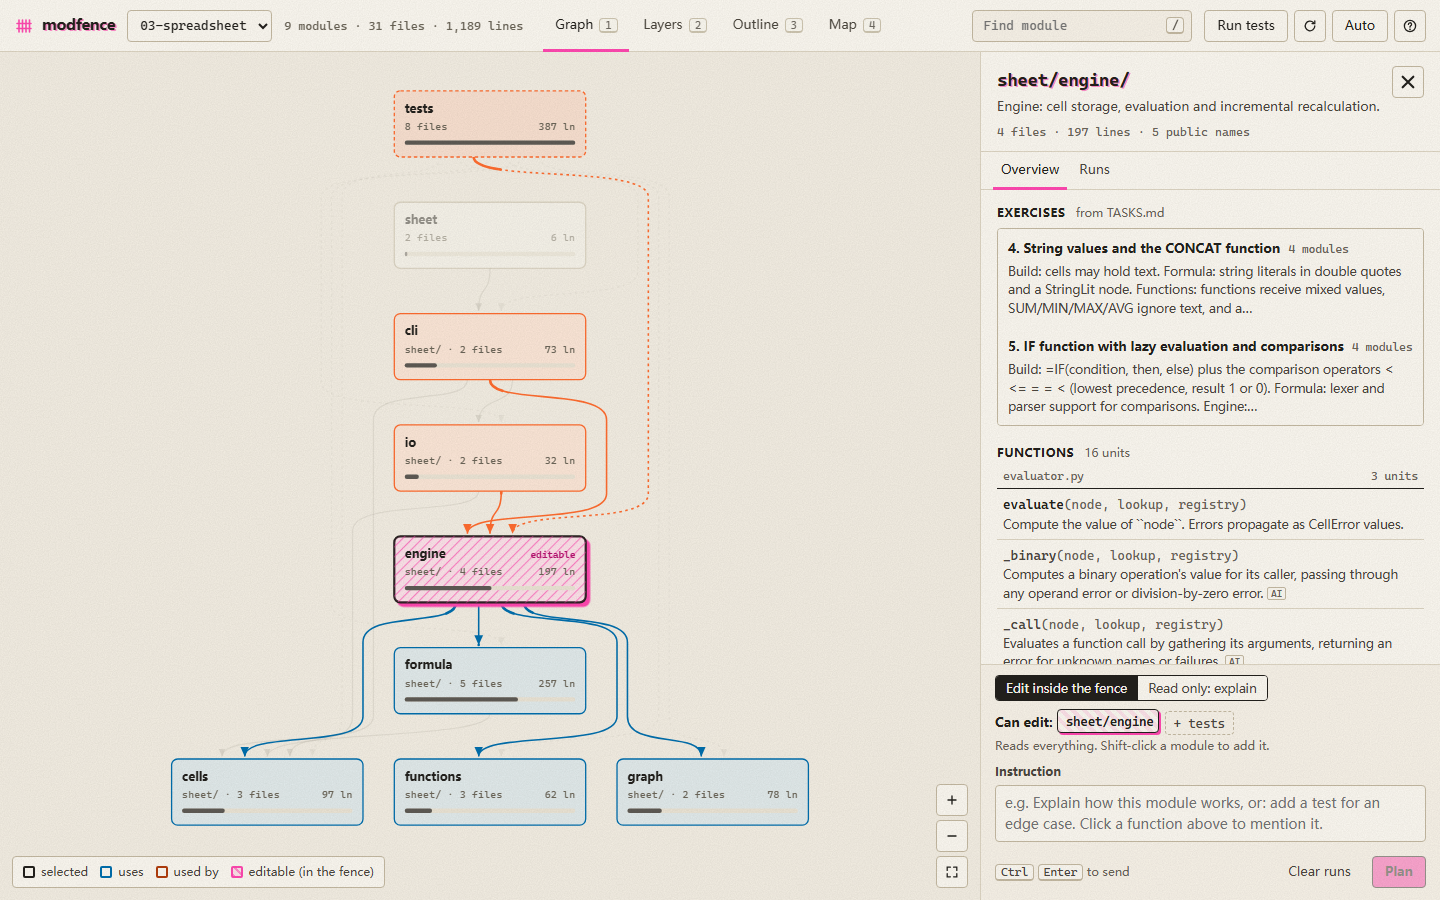
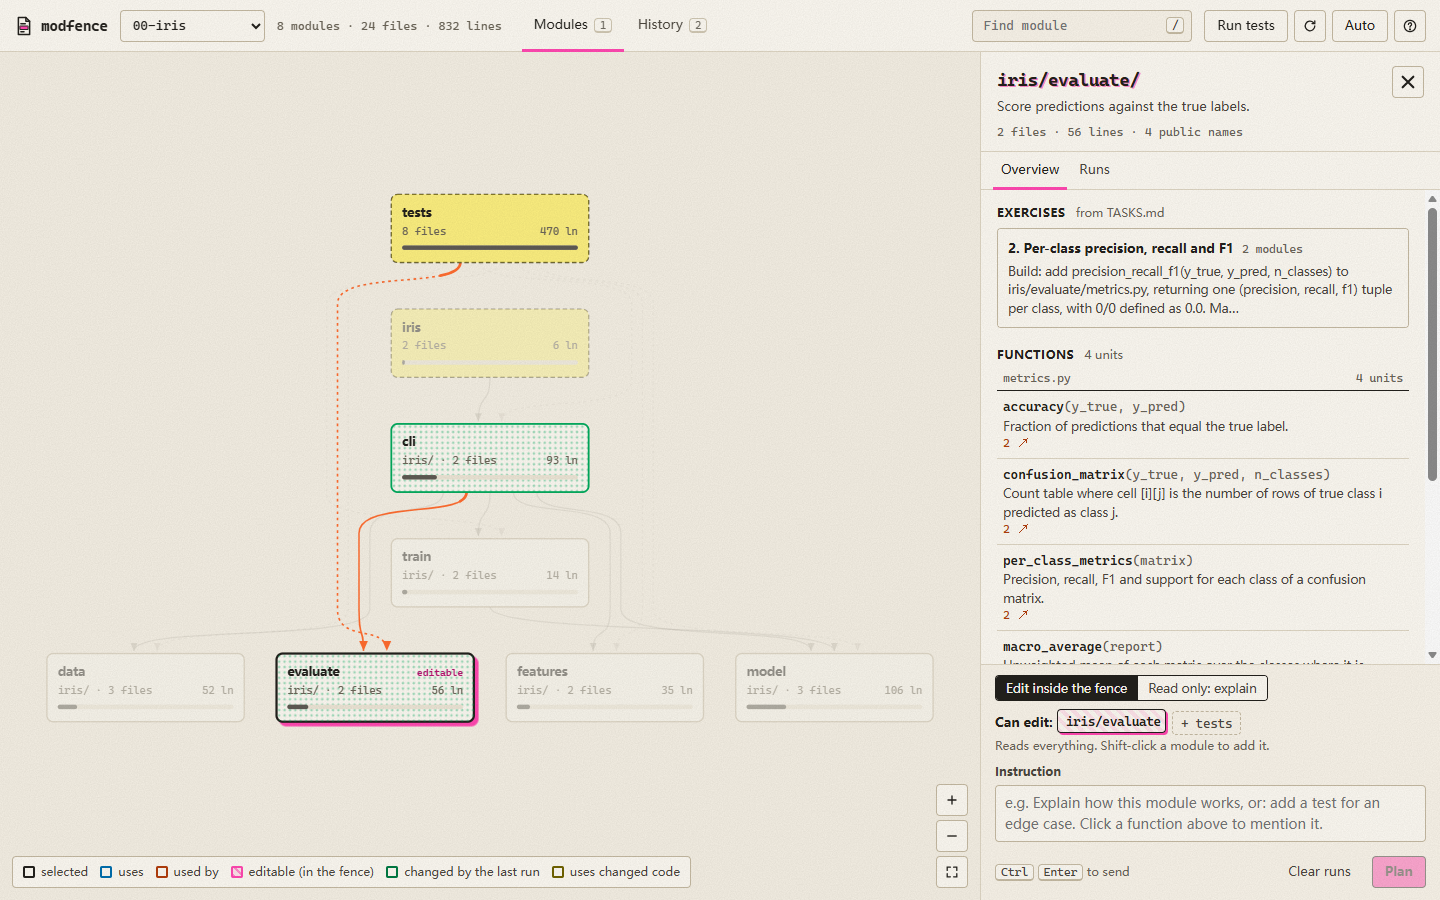
Rewrite README for fence coding; STANDARDS

diff --git a/README.md b/README.md
@@ -1,119 +1,94 @@
 # modfence
 
-**See your project as modules and functions. Fence what an AI agent may edit. Plan, build, and review every function it changed.**
+**Vibe code one module at a time. Fence what the AI agent may edit, agree on a plan, and get every run back as a version you can read by function and undo.**
 
-![modfence on the spreadsheet example](docs/graph.png)
+![modfence on the iris example: the evaluate module selected and fenced, its functions with what each does](docs/graph.png)
 
-modfence is a tool for **fence coding**: working with an AI agent on a codebase you read as modules and functions instead of lines. Vibe coding hands the agent the whole repo and a wish. Fence coding asks a little more of you first: you say which modules may change, settle the open questions, and agree on what "done" means. In return the agent explores less, and every change comes back as a list of functions you can check.
+Tools that draw a repository's structure help you read it. modfence is for changing it with an AI agent without losing track of your own project. You work in **fence coding**:
 
-It draws your Python project as modules and the imports between them. Select a module and a panel opens with:
+1. **Pick the module.** Select it on the map, see its functions and what each one does, what it uses and who uses it. Shift-click to fence more modules.
+2. **Agree on a plan.** The agent reads the project (it cannot edit yet), asks up to four questions with its recommended answer preselected, and lists the functions it will add, change or remove. You answer and press *Build*.
+3. **Build inside the fence.** A hook blocks every edit outside the fenced modules. Before the agent may stop, the project's tests run; if they fail it is sent back once.
+4. **Review the version.** Every run that changed code becomes a numbered version in **History**: what you asked, which modules and functions changed, whether the tests passed, the cost, the diff, and a revert.
 
-- **its functions**, each with one line on what it does: the author's docstring, or, where there is none, a summary written by a small model (Haiku) the first time you open the module and cached until the file changes (marked `AI`);
-- what it uses and who uses it, by name (`parser uses tokenize, Token from lexer`);
-- exercises from the project's `TASKS.md` that touch it;
-- the fence, and an instruction box. Click a function to mention it in the instruction.
-
-The source files are one click further, under *Source files*, for whoever wants them.
-
-Your instruction goes to your own Claude Code:
-
-- **An edit starts with a plan.** The agent reads the project (it cannot edit yet), asks up to four questions with its recommended answer preselected, and lists the functions it will add, change or remove. You answer and press *Build*; the build resumes the same session, so nothing the planner read is read again.
-- **The agent reads the whole project but edits only inside the fence.** A hook enforces this; the prompt does not just ask for it.
-- **A done check before it may finish.** A `Stop` hook runs the project's tests. If they fail, the agent is sent back once with the output; a second failure is let through and the run is marked "done check failed", so it cannot loop and burn tokens.
-- **Read only mode** fences nothing and skips the plan: the agent explains and gives hints instead of solutions.
-- **Each run ends with the functions it touched:** added, changed or removed, with what each one now does. The line diff is behind *Source*. You can revert the run; a file you edited again since the run is left alone.
-- **The graph shows the effect.** Changed modules get green dots and a `+n −m` badge. Modules that use changed code turn yellow. Files changed outside the fence get a red banner and a one-click revert.
-
-![A build run on the calculator: the functions it touched, and the done check](docs/runs.png)
-
-![Layers view](docs/layers.png)
+![History: two builds on the iris example, which module each changed, and the functions of v2](docs/history.png)
 
 ## Run it
 
 ```bash
-cd modfence
-python -m modfence                         # the four example projects
-python -m modfence path/to/your/project    # or your own (one or more)
+pip install git+https://github.com/ruijiezh67/modfence
+cd path/to/your/project
+modfence
 ```
 
-It opens `http://127.0.0.1:8765`.
+It opens `http://127.0.0.1:8765` on the current directory. `modfence a b` opens several projects; To try the bundled examples from a clone of this repo: `python -m modfence examples/*`.
 
-**Requirements:** Python 3.10+, and a logged-in [Claude Code](https://code.claude.com) CLI. Runs use your own subscription or API setup, so modfence needs no API key of its own.
+**Requirements:** Python 3.10+ and a logged-in [Claude Code](https://code.claude.com) CLI. Runs use your own Claude subscription or API setup; modfence has no API key and no dependencies.
 
-**Which Claude Code it uses:** the first one it finds of:
-1. `CLAUDE_BIN`;
-2. the newest binary bundled with the VS Code extension;
-3. `claude` on your PATH.
+**Tests for the done check:** pytest if the project is configured for it (`conftest.py`, `pytest.ini`, or `[tool.pytest...]`), else `unittest` on `tests/` or `test/`, using the project's `.venv` if it has one. Override with `modfence --test-cmd "pytest -q tests/unit"`. A suite that takes longer than 270 s is not used to block the agent.
 
-modfence itself uses only the Python standard library and nothing is installed.
+## Big projects
+
+- **Folders fold.** A project with more than 60 modules opens as its top folders (fastapi: 430 modules as 4 folders). Click a folder to open it; the path at the top goes back. Search (`/`) finds any module and opens the folders down to it.
+- **Fast after the first scan.** Parsed files and file hashes are cached by size and modification time. Measured on a laptop: fastapi (1,219 Python files) scans and snapshots in 1.6 s once cached (8.9 s for the first scan; 61 s right after cloning, when the disk cache is cold too); pydantic (3,155 files) in 2.2 s (11.8 s first scan).
+- **Revert is kept for the fence.** Before a run, modfence keeps a copy of up to 50 MB of the project's files, and always of the fenced modules' files, so the run can be undone.
+
+![fastapi opened at its fastapi/ folder; tests, docs_src and scripts stay folded](docs/big.png)
+
+## The example: an ML pipeline in six modules
+
+[`examples/00-iris`](examples/00-iris/) trains a classifier on Fisher's Iris data with the standard library only: `data` (load, stratified split), `features` (standardize), `model` (softmax regression), `train` (gradient descent), `evaluate` (accuracy, confusion matrix), and `cli`, which runs them in that order. 34 tests run in about a second; `python -m iris train` prints test accuracy 0.9778. Its `TASKS.md` has five exercises, from one module (a k-NN model) to several (save and load as JSON: `model` + `cli`).
+
+The two versions in the History screenshot are real runs on it (Claude Code 2.1.319, 2026-11-07):
+
+| Version | Fence | Plan | Build | Done check | Functions |
+|---|---|---|---|---|---|
+| v1 k-NN classifier | `iris/model`, `tests` | $0.23 | $0.39 | passed, 43 tests | +5 in `knn.py`; +10 in tests |
+| v2 precision, recall, F1 | `iris/evaluate`, `iris/cli`, `tests` | $0.25 | $0.51 | passed, 49 tests | +3 and ~4 in code; +6 in tests |
+
+[`examples/`](examples/) also holds a calculator (a pipeline), a library system (layers), a spreadsheet engine, and a PyTorch tinygpt (needs `torch`).
 
 ## Using it
 
 | Do | How |
 |---|---|
-| Find a module | Press `/` or `Ctrl` + `K` and type. Or click it in any view. |
-| Switch view | `1` Graph, `2` Layers (architecture bands), `3` Outline (the project as a document), `4` Map (area is lines of code). Selection, fence and change marks carry across views. |
-| Read a module | What it uses turns blue and the modules that use it orange; everything else fades. Its functions are listed with what each does; hover an arrow to see which names it carries. |
-| Set the fence | The selected module is editable (pink, hatched). Shift-click adds modules; `+ tests` adds the tests. Switch to `Read only: explain` to fence nothing. |
-| Give an instruction | Type it (click a function to mention it) and press *Plan* or `Ctrl` + `Enter` (`Cmd` + `Enter`). Answer the plan's questions and press *Build*. The bar under the top bar shows the running agent from any view, with Stop. While it runs, the fence border marches. |
-| Pick an exercise | Exercises from `TASKS.md` that touch the module appear in its Overview. Clicking one fills in the instruction and fences the modules it names, plus the tests. |
-| Review | In the Runs tab: the functions each run changed, *Source* for the line diff, `Revert this run`, `Run tests`. |
-| Start over | `Clear runs` drops this fence's agent session and run history. Files are not touched. |
-| Move around | Drag to pan, pinch or `Ctrl` + scroll to zoom, double-click to fit. The panel is resizable. `?` opens the help. |
-| Link to a module | `http://127.0.0.1:8765/#p=1&m=library/services` opens project 1 with that module selected. |
+| Find a module | `/` or `Ctrl` + `K`, then type. |
+| Switch view | `1` Modules, `2` History. |
+| Read a module | What it uses turns blue, the modules that use it orange. Its functions are listed with what each does: the docstring, or a one-line summary by a small model (Haiku), cached until the file changes and marked `AI`. Source files are folded away under *Source files*. |
+| Set the fence | The selected module is editable (pink). Shift-click adds modules; `+ tests` adds the tests. `Read only: explain` fences nothing and skips the plan. |
+| Instruct | Type (click a function to mention it), press *Plan* or `Ctrl` + `Enter`. Answer, press *Build*. The bar at the top shows the running agent, with Stop. |
+| Review | The run's functions appear in the panel; every run is also a version in History. *Show on graph* paints the modules it changed (green) and those that use them (yellow). *Changes, diff and revert* opens the functions, the line diff, and the revert. |
+| Link | `http://127.0.0.1:8765/#p=0&m=iris/evaluate` opens a module. |
 
-## The example projects
+## Engineering standards
 
-[`examples/`](examples/) holds four small modular projects, from easy to hard. Each has tests and a `TASKS.md` with five exercises, from single-module to cross-module:
-
-| Project | Modules | What it teaches |
-|---|---|---|
-| `01-calculator` | lexer, parser, evaluator, cli | a pipeline: each stage depends only on the one before it |
-| `02-library` | domain, storage, services, reports, cli | layers: the domain depends on nothing, and the CLI sits on top |
-| `03-spreadsheet` | cells, formula, functions, graph, engine, io, cli | an engine that composes four independent modules |
-| `04-tinygpt` | config, data, model, train, eval, cli | a PyTorch training codebase: a character-level GPT that trains on a CPU in seconds. Needs `torch`. |
-
-The cross-module tasks are where the fence pays off. Here is what happened with the fence set to `calc/evaluator` only, asking for the `^` operator, which also needs the lexer and parser:
-
-- Claude implemented and tested the evaluator part.
-- It listed the exact changes `calc/lexer` and `calc/parser` still need.
-- It did not touch them.
-
-In a separate check, asked to write a file in `calc/lexer` with the same fence, the write was blocked by the hook.
+[`docs/STANDARDS.md`](docs/STANDARDS.md) lists the rules modfence takes from git's contribution guidelines, Google's code review practices, Anthropic's Claude Code best practices and others, and for each one whether modfence does it and which test shows it. In short: plan first, a harness-enforced pass/fail check, edits blocked outside the fence, every change reviewable by function and reversible. Not yet: size warnings, test-first mode, commit messages from runs.
 
 ## How it works
 
 | Part | File | What it does |
 |---|---|---|
-| Graph | `modfence/analyze.py` | Parses every `.py` file with `ast`. A module is a directory, except where code is flat: each `.py` file at the project root (`train.py`, `model.py`), and each file in a directory with 8 or more `.py` files of its own (`nanochat/gpt.py`), is a module by itself. An edge A → B exists when a file in A imports a file in B (absolute and relative imports). Each edge keeps its receipts: the file, line, source and imported name of every import behind it. The functions of a module are its top-level functions and classes and their methods; a run's changes are named by comparing a fingerprint of each one before and after. No model draws the graph. |
-| Purposes | `modfence/purpose.py` | One line per function: the docstring's first line, else a summary from `claude -p --model haiku` with no tools, the user's settings and CLAUDE.md left out, and a two-sentence system prompt instead of Claude Code's own. The module's source is in the prompt. Measured on the examples: $0.0004 to $0.002 and about 10 s per module. Cached in `.modfence/purposes.json` by file hash. |
-| Done check | `modfence/done_check.py` | A `Stop` hook added to build runs: it runs the project's `unittest` suite, blocks the first stop if it fails, lets the second through, and records each result for the run log. |
-| Runs | `modfence/runner.py` | Starts `claude -p --output-format stream-json --include-partial-messages` in the project root. It adds a system note naming the fenced modules, their files and public names, and what they depend on and are used by. It resumes that fence's previous session. After the run it diffs the project to report changes, edits outside the fence, and the modules that import changed code. |
-| Fence | `modfence/scope_guard.py` | A `PreToolUse` hook, passed with `--settings` for that run only. It denies `Edit`, `Write`, `MultiEdit` and `NotebookEdit` on any path outside the fence. `..` tricks and symlinks are resolved first. It fails closed. |
-| Server | `modfence/server.py` | `http.server` on 127.0.0.1 only. Events stream to the page as server-sent events. The page itself is plain HTML, CSS and JS with no build step, in `modfence/web/`. Motion uses platform features only (View Transitions, `@starting-style`, scroll-driven animations, `::details-content`); older browsers get the same UI without the motion, and `prefers-reduced-motion` turns it off. |
+| Graph | `modfence/analyze.py` | Parses every `.py` file with `ast`. A module is a directory; in flat code each root `.py` file, and each file in a directory with 8 or more `.py` files of its own, is a module. An edge A → B exists when a file in A imports a file in B, and keeps the file, line and imported name of each import. Functions are top-level functions, classes, methods and UPPER constants; a run's changes are named by fingerprinting each one before and after. No model draws the graph. |
+| Purposes | `modfence/purpose.py` | The docstring's first line, else a summary from `claude -p --model haiku` with no tools and without your settings or CLAUDE.md. $0.0004 to $0.002 and about 10 s per module on the examples. Cached in `.modfence/purposes.json` by file hash. |
+| Runs | `modfence/runner.py` | Plan runs are read-only and answer with JSON (questions and the plan); build runs resume that session. Each run starts `claude -p --output-format stream-json` with a note naming the fence, its public names, and its neighbours with file:line receipts. After the run it diffs the project, names changed functions, finds the modules that use changed code, and stores the before and after of each file. |
+| Fence | `modfence/scope_guard.py` | A `PreToolUse` hook for that run only: denies `Edit`, `Write`, `MultiEdit` and `NotebookEdit` outside the fence, after resolving `..` and symlinks. Fails closed. |
+| Done check | `modfence/done_check.py` | A `Stop` hook on build runs: runs the tests, blocks the first stop on failure, lets the second through and marks the version "tests failed". |
+| Server | `modfence/server.py` | `http.server` on 127.0.0.1 only; plain HTML, CSS and JS in `modfence/web/`, no build step. Requests must carry a localhost `Host`; writes need an `X-Modfence` header, so another website cannot drive your Claude Code. |
 
-**State** lives in `<project>/.modfence/` (git-ignored automatically): session ids and run history per fence, `runs/<id>/` with the before and after copy of every file a run changed (what diff and revert read), and `purposes.json` with the function summaries. Browsing a project writes nothing but those summaries.
-
-**Security:**
-- The server only answers requests whose `Host` is `127.0.0.1` or `localhost`.
-- Every state-changing request needs an `X-Modfence` header, which a page on another site cannot send.
-- Another website therefore cannot drive your Claude Code through modfence.
-- File views are confined to the project folder.
+**State** lives in `<project>/.modfence/` (git-ignored automatically): sessions and run logs per fence, `runs/<id>/` with each version's files before and after, and `purposes.json`.
 
 ## Limits
 
 - **Python only.** JS/TS imports are not analyzed yet.
-- **Large projects get large graphs.** Splitting flat directories into files keeps training repos useful (nanochat: 26 modules) but turns big libraries into big graphs (rich: 141 modules, fastapi with its docs examples: 430). There is no collapse or filter yet; use search (`/`) and the Layers view.
-- **The hook sees the file tools, not shell commands.** A script that writes files can still change something outside the fence. modfence reports it after the run as "changed outside the fence" and offers a revert, but does not prevent it. Runs only allow `python` and read-only `git`/`ls`/`cat` commands without asking.
-- **Runs use your Claude Code settings**, including your own CLAUDE.md, so the answer follows your usual preferences. Function summaries do not.
-- **Function summaries cost a little and can be wrong.** They are written from the code by a small model, marked `AI`, and never replace a docstring. "Used by" per function counts `from x import name` only; a module imported whole (`import x` then `x.f()`) is not traced to the function.
-- **The done check knows `unittest` only** (`tests/` folder). Projects without one get no done check.
-- **Plan and build are new and not benchmarked yet.** The evaluation below measured single runs without a plan step; what the plan step costs and saves is N/A until it is measured.
-- **One run at a time per project.**
+- **The hook sees the file tools, not shell commands.** A script can still write outside the fence; modfence reports it after the run and offers a revert. Runs allow only `python` and read-only `git`/`ls`/`cat` without asking.
+- **Runs use your Claude Code settings**, including your CLAUDE.md (the plan's questions come in your chat language). Function summaries do not.
+- **"Used by" per function** counts `from x import name`; `import x` then `x.f()` is not traced to the function.
+- **Plan + build is not benchmarked yet.** One calculator run cost $0.76 against $0.51 for a fenced run without a plan; n = 1, so the comparison is N/A.
+- **One run at a time per project.** The grouping threshold (60 modules) is fixed.
 
 ## Evaluation
 
-On four cross-module features, fencing the modules a feature needs (tests included) built every feature correctly at 21% lower cost, 37% less context re-read and 27% less time than handing the whole task to Claude Code, and it was cheaper on each of the four (n = 2 each, so suggestive). [`docs/EVALUATION.md`](docs/EVALUATION.md) has that benchmark, one against plain Claude Code and Claude Code's own permission rules, and the analyzer's numbers on popular open-source repos. The scripts are in [`bench/`](bench/).
+On four cross-module features, fencing the modules a feature needs (tests included) built every feature correctly at 21% lower cost, 37% less context re-read and 27% less time than handing the whole task to Claude Code, cheaper on each of the four (n = 2 each, so suggestive). [`docs/EVALUATION.md`](docs/EVALUATION.md) has the method, the numbers, and the analyzer on popular repositories; scripts in [`bench/`](bench/).
 
 ## Tests
 
@@ -121,4 +96,4 @@ On four cross-module features, fencing the modules a feature needs (tests includ
 python -m unittest discover -s tests -t .
 ```
 
-The suite has 24 deterministic tests. No model is called: `tests/fake_claude.py` stands in for the CLI. It emits Claude Code's stream-json events and makes the file edits the prompt asks for.
+27 deterministic tests. No model is called: `tests/fake_claude.py` stands in for the CLI, emitting Claude Code's stream-json events and making the edits the prompt asks for.

diff --git a/docs/STANDARDS.md b/docs/STANDARDS.md
@@ -1,0 +1,42 @@
+# Engineering standards: what modfence follows, and how to check it
+
+modfence is meant to make AI-assisted coding meet the bar that experienced engineers already hold for human changes. This page lists the rules it takes from published practice, whether modfence does each one today, and the command or test that shows it. "Not yet" means not built; nothing here is claimed without a check.
+
+Sources (short names used below):
+- **git**: git/git `Documentation/SubmittingPatches` and `CodingGuidelines`.
+- **Google**: Google Engineering Practices, "Small CLs" and "What to look for in a code review".
+- **Anthropic**: "Best practices for Claude Code" (plan first; give the agent a pass/fail check; "if something has to happen every time, make it a hook").
+- **Beck**: Kent Beck, Tidy First (do not mix structural and behavioral changes).
+- **Willison**: Simon Willison on vibe engineering ("I won't commit any code to my repository if I couldn't explain exactly what it does to somebody else").
+- **Pocock**: Matt Pocock's agent skills `grilling` (questions in rounds, each with a recommended answer) and `tdd`.
+
+## The rules for a change made by an agent
+
+| # | Rule | Source | modfence today | How to check |
+|---|---|---|---|---|
+| 1 | Plan before editing: settle open questions, name what will change, agree on "done". | Anthropic, Pocock | **Yes.** Every edit run starts with a read-only plan: at most 4 questions with a recommended answer, the functions to touch, and a done line. Build resumes the same session. | `test_plan_phase_reads_only_and_returns_a_plan` |
+| 2 | Every change has a pass/fail check, and the harness enforces it, not the prompt. | Anthropic, git | **Yes.** A `Stop` hook runs the project's tests (pytest or unittest, or `--test-cmd`) and sends the agent back once if they fail. | `test_build_phase_adds_the_done_check_hook`, `test_done_check_blocks_once_then_lets_the_agent_stop` |
+| 3 | The agent may only change what you agreed to; anything else is blocked or reported. | Anthropic ("make it a hook") | **Yes** for file tools: a `PreToolUse` hook denies edits outside the fence and fails closed. Shell writes are reported after the run, with a revert. | `test_hook_denies_outside_and_allows_inside_and_reads`, `test_hook_fails_closed`, `test_read_only_run_may_edit_nothing` |
+| 4 | You can explain every change you keep. | Willison | **Partly.** Each run lists the functions added, changed and removed, with one line on what each does now; the diff is one click away. There is no walkthrough or quiz yet. | History view; `test_changes_are_named_per_function` |
+| 5 | Every change can be undone. | git (small reversible commits) | **Yes.** Each run is a numbered version in History with a revert; a file edited again since is left alone. | `test_run_is_stored_with_diff_and_can_be_reverted`, `test_revert_leaves_files_edited_after_the_run`, `test_versions_keep_prompt_and_revert` |
+| 6 | One logical change per run; about 100 changed lines is a good size, 1000 is too big. | git, Google | **Shown, not enforced.** History shows functions and files per version. No size warning yet. | History view |
+| 7 | Do not mix structural changes (renames, moves) with behavior changes. | Beck | **Not yet.** | N/A |
+| 8 | Test first: a failing test before the fix. | Pocock (`tdd`), Beck | **Not yet** as a mode. You can ask for it in the instruction. | N/A |
+| 9 | A commit message written from the run, edited by a human. | git | **Not yet.** | N/A |
+
+## The rules for modfence's own code
+
+| Rule | Source | Status | How to check |
+|---|---|---|---|
+| Tests come with every change, and the suite passes before a commit. | git | Yes: 27 deterministic tests, no model or network. | `python -m unittest discover -s tests -t .` |
+| No whitespace errors. | git | Yes. | `git diff --check` |
+| One logical change per commit, subject 50 characters or less. | git | Since 2026-11-06; two older subjects are longer (74 and 63). | `git log --format=%s` |
+| Standard library only; nothing installed outside the project. | (project rule) | Yes: `dependencies = []` in `pyproject.toml`. | `pip install .` in a fresh venv, then `modfence --help` |
+| Local server cannot be driven by another website. | OWASP (CSRF, DNS rebinding) | Yes: `Host` must be localhost; writes need the `X-Modfence` header. | `test_guards` |
+| CI runs the tests on every push. | git | **Not yet**: the workflow is ready on branch `ci`, waiting for a token with the `workflow` scope. | N/A |
+
+## What is measured, and what is not
+
+- Fence compliance and cost against plain Claude Code: [EVALUATION.md](EVALUATION.md), 4 tasks x 2 runs. Suggestive, not conclusive.
+- Plan + build against a fenced run without a plan: one run each, so N/A as a comparison.
+- Whether people understand their project better with modfence: not measured. N/A.
